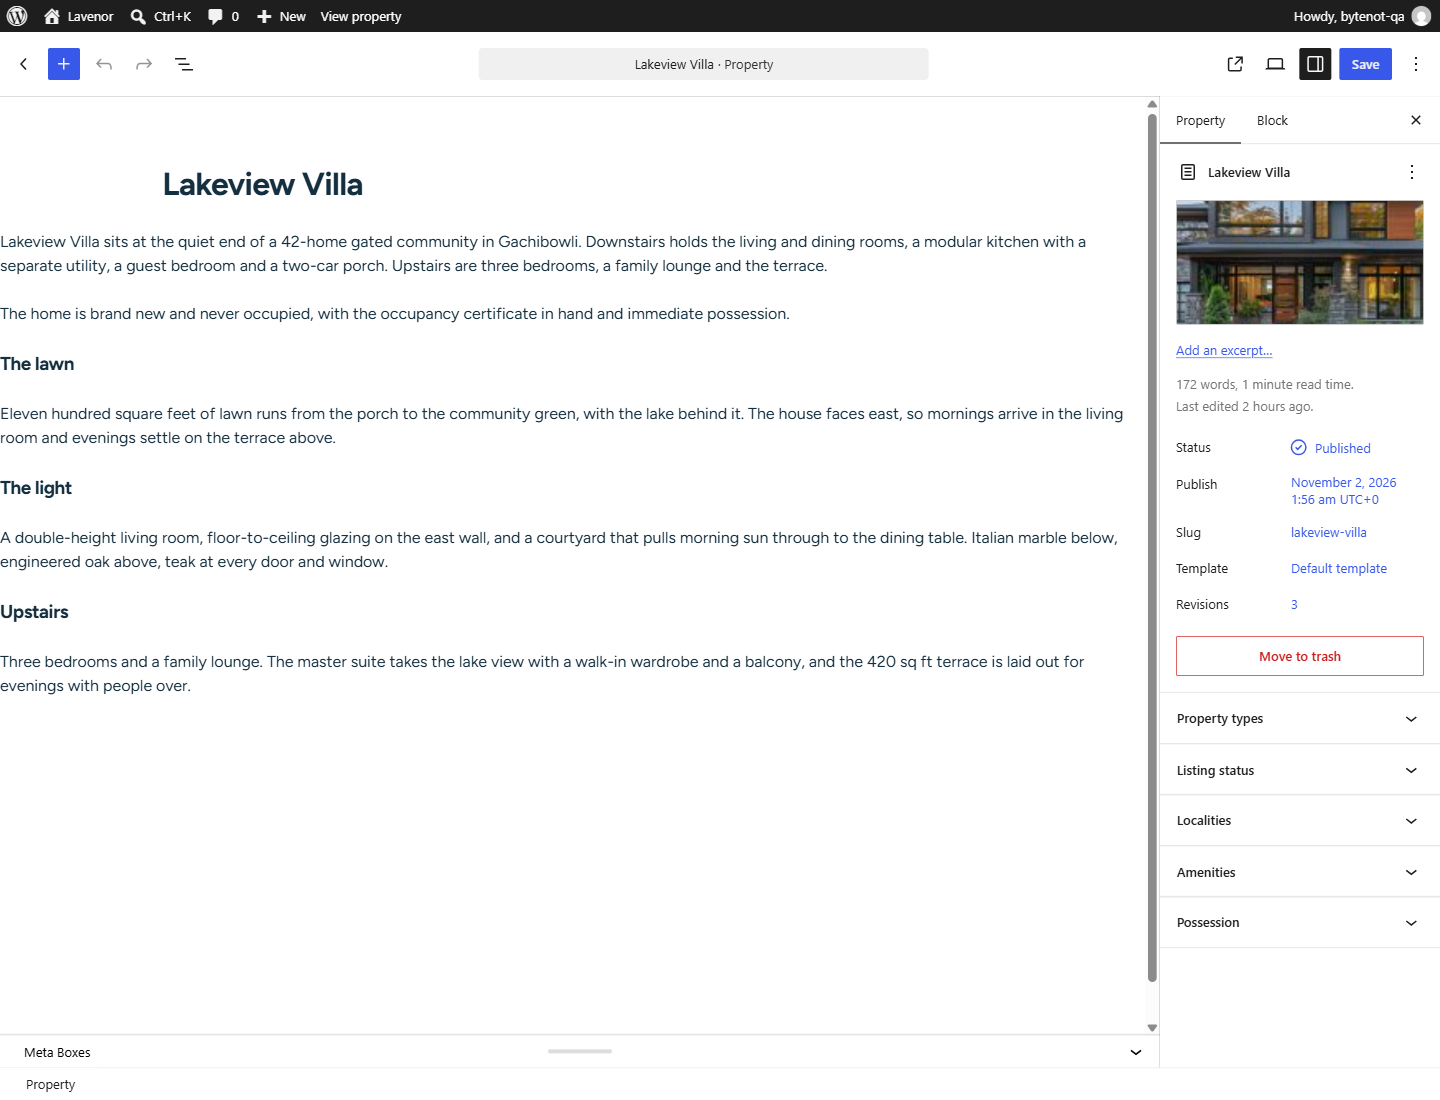
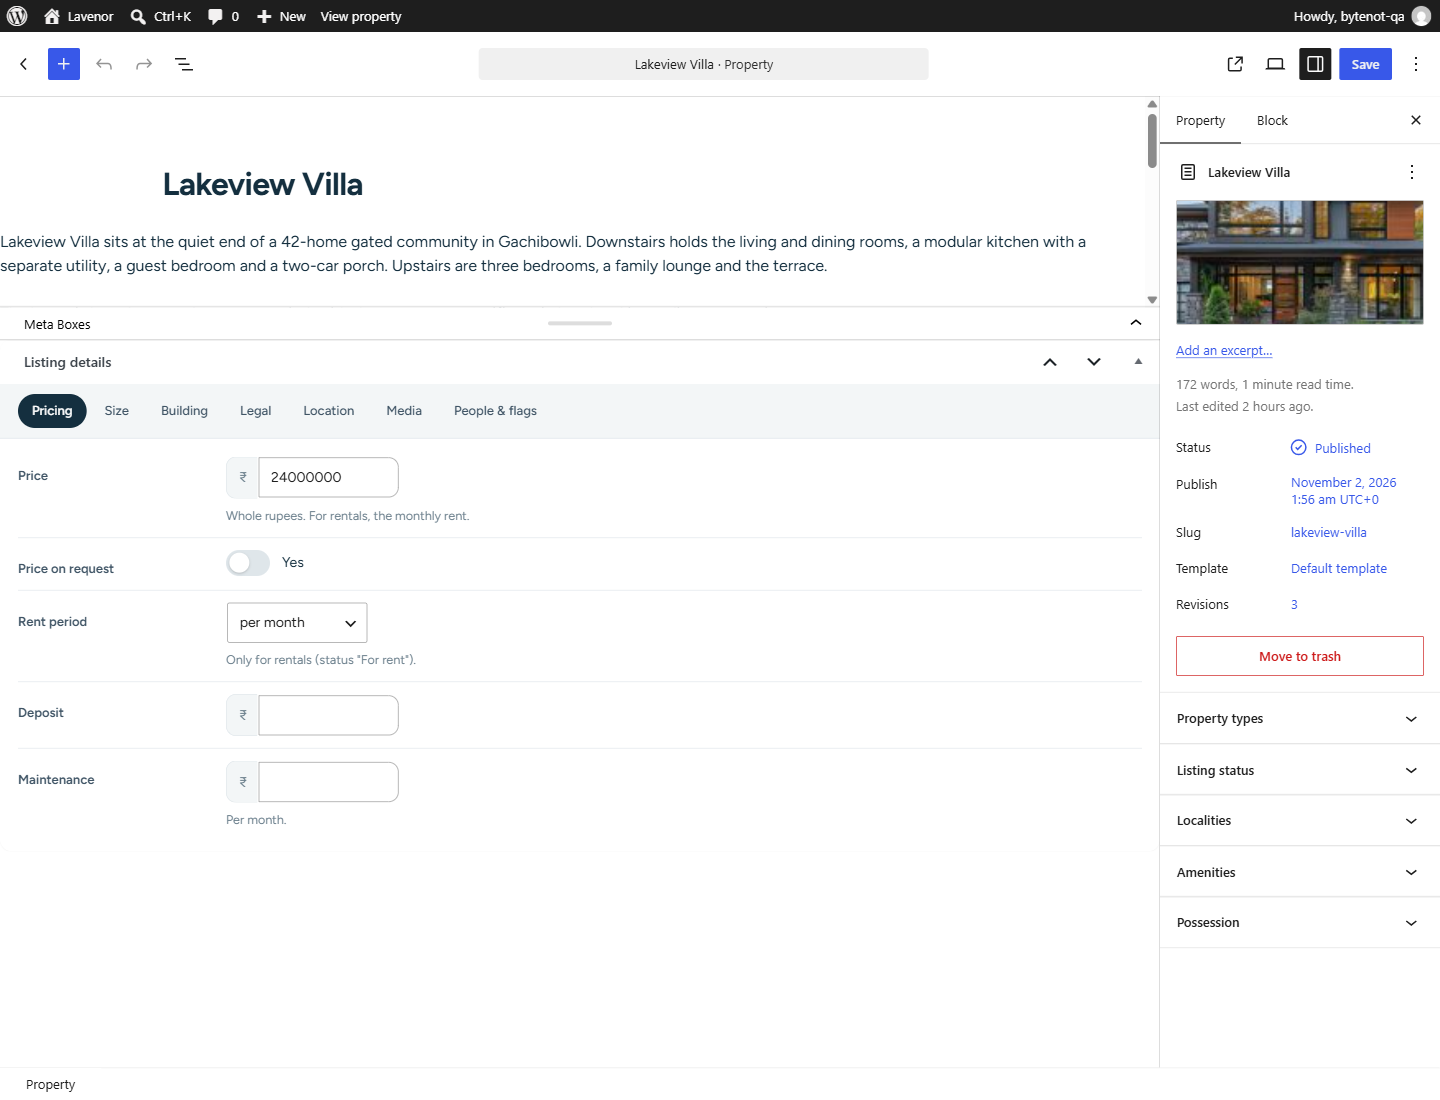
Bytenot Core admin: hidden attribute wins in the plugin's screens; decisions noted

diff --git a/plugin/bytenot-core/assets/admin/admin.css b/plugin/bytenot-core/assets/admin/admin.css
@@ -193,3 +193,5 @@
 .bn-landmarks__list { margin: 0; padding: 0; list-style: none; }
 .bn-landmarks__tpl { display: none; }
 .block-editor-page #bytenot_listing { border-radius: 12px; overflow: hidden; }
+
+.bn [hidden] { display: none !important; }

diff --git a/DECISIONS.md b/DECISIONS.md
@@ -2,6 +2,22 @@
 
 Short log of choices that are expensive to reverse. Newest first.
 
+## 2026-11-02 — Bytenot Core: one plugin, its own admin
+
+- The companion plugin is Bytenot Core (`plugin/bytenot-core`, text domain `bytenot-core`, prefix
+  `bytenot_core_`, REST `bytenot/v1`, option `bytenot_core_settings`). Post types, taxonomies and
+  the `pc_` field keys did not change.
+- It draws its own admin under a top-level "Bytenot" menu: Dashboard, Enquiries, the content types
+  (listings, projects, advisors, testimonials, FAQs, partners), Setup, Integrations, Tools. WordPress
+  keeps the outer frame; the screens use the plugin's stylesheet (Figtree, navy and gold). Settings
+  still save through the Settings API; each screen posts only its own keys.
+- Listings, projects and advisors get a "Listing details" panel (tabs: pricing, size, building,
+  legal, location with a landmarks repeater, media pickers, people and flags). The raw Custom
+  Fields panel is off for those types.
+- Private preview lives under Tools and as a one-click toggle on the dashboard.
+- The browser-sync proxy (localhost:3000) corrupts the block editor's settings JSON by rewriting a
+  URL inside it; use lavenorrealty.local for wp-admin, the proxy for the front end only.
+
 ## 2026-11-02 — Production build hides the design's structure
 
 - `npm run build` (scripts/build.mjs) writes `build/bytenot-estate/`: every design class name becomes
